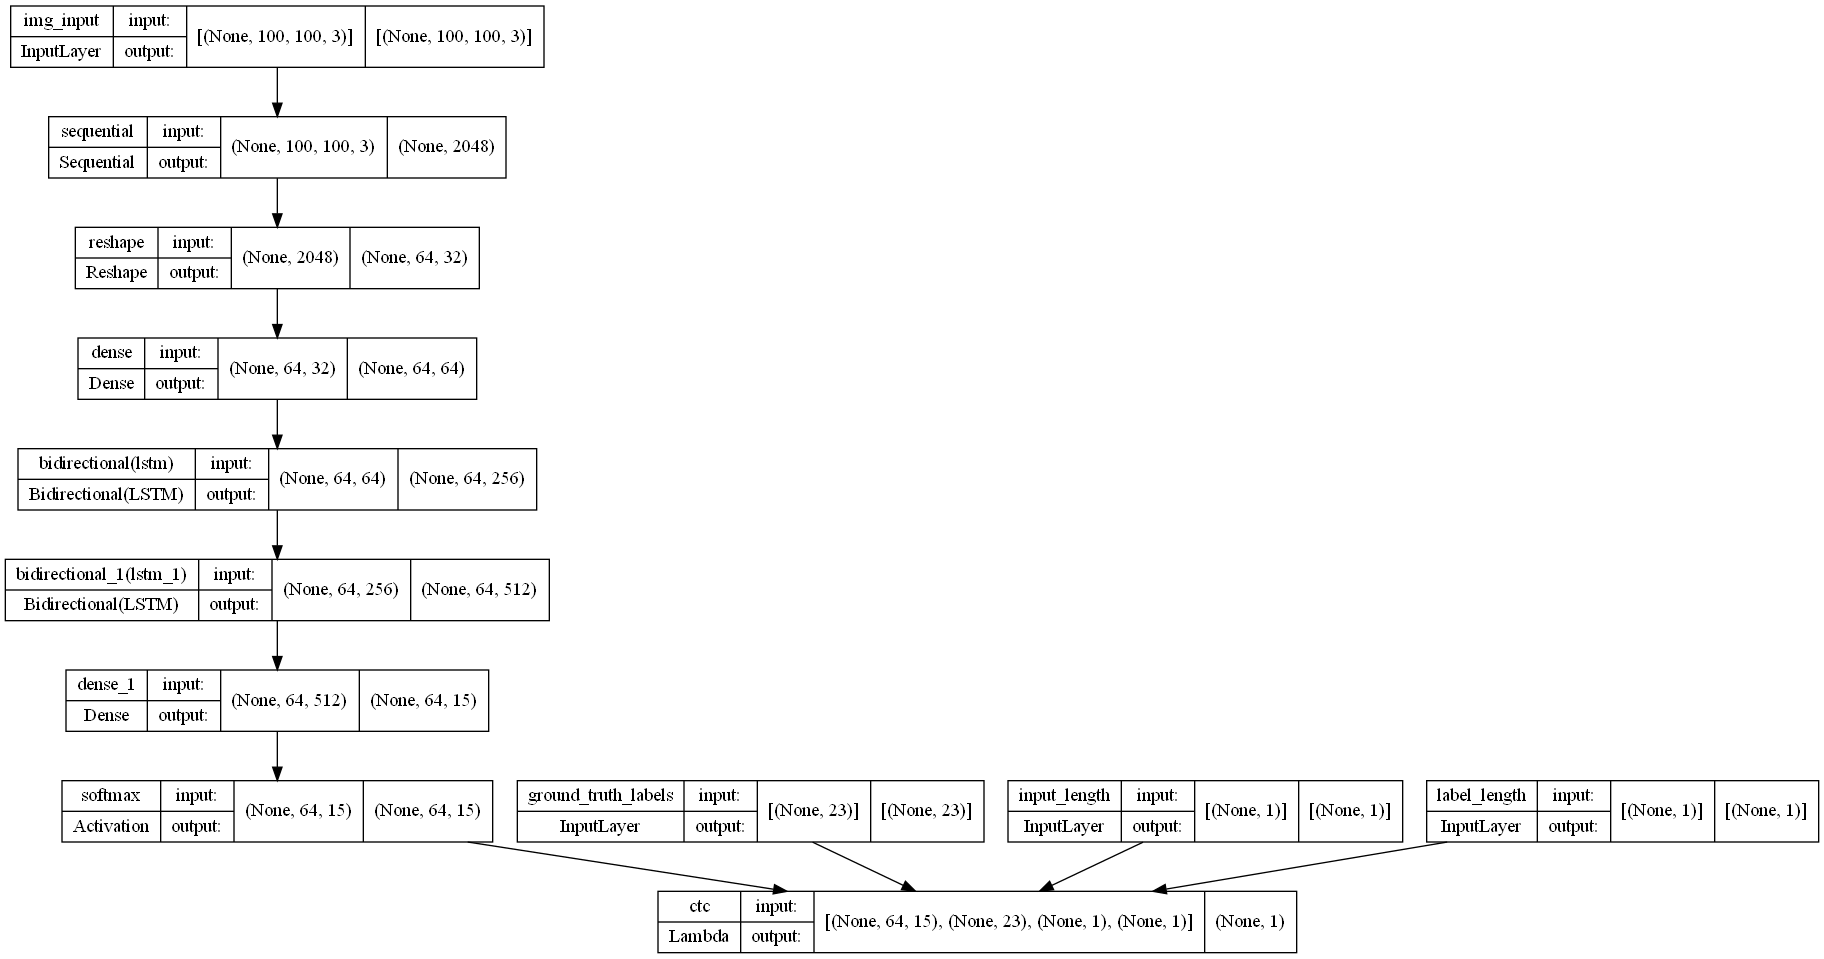
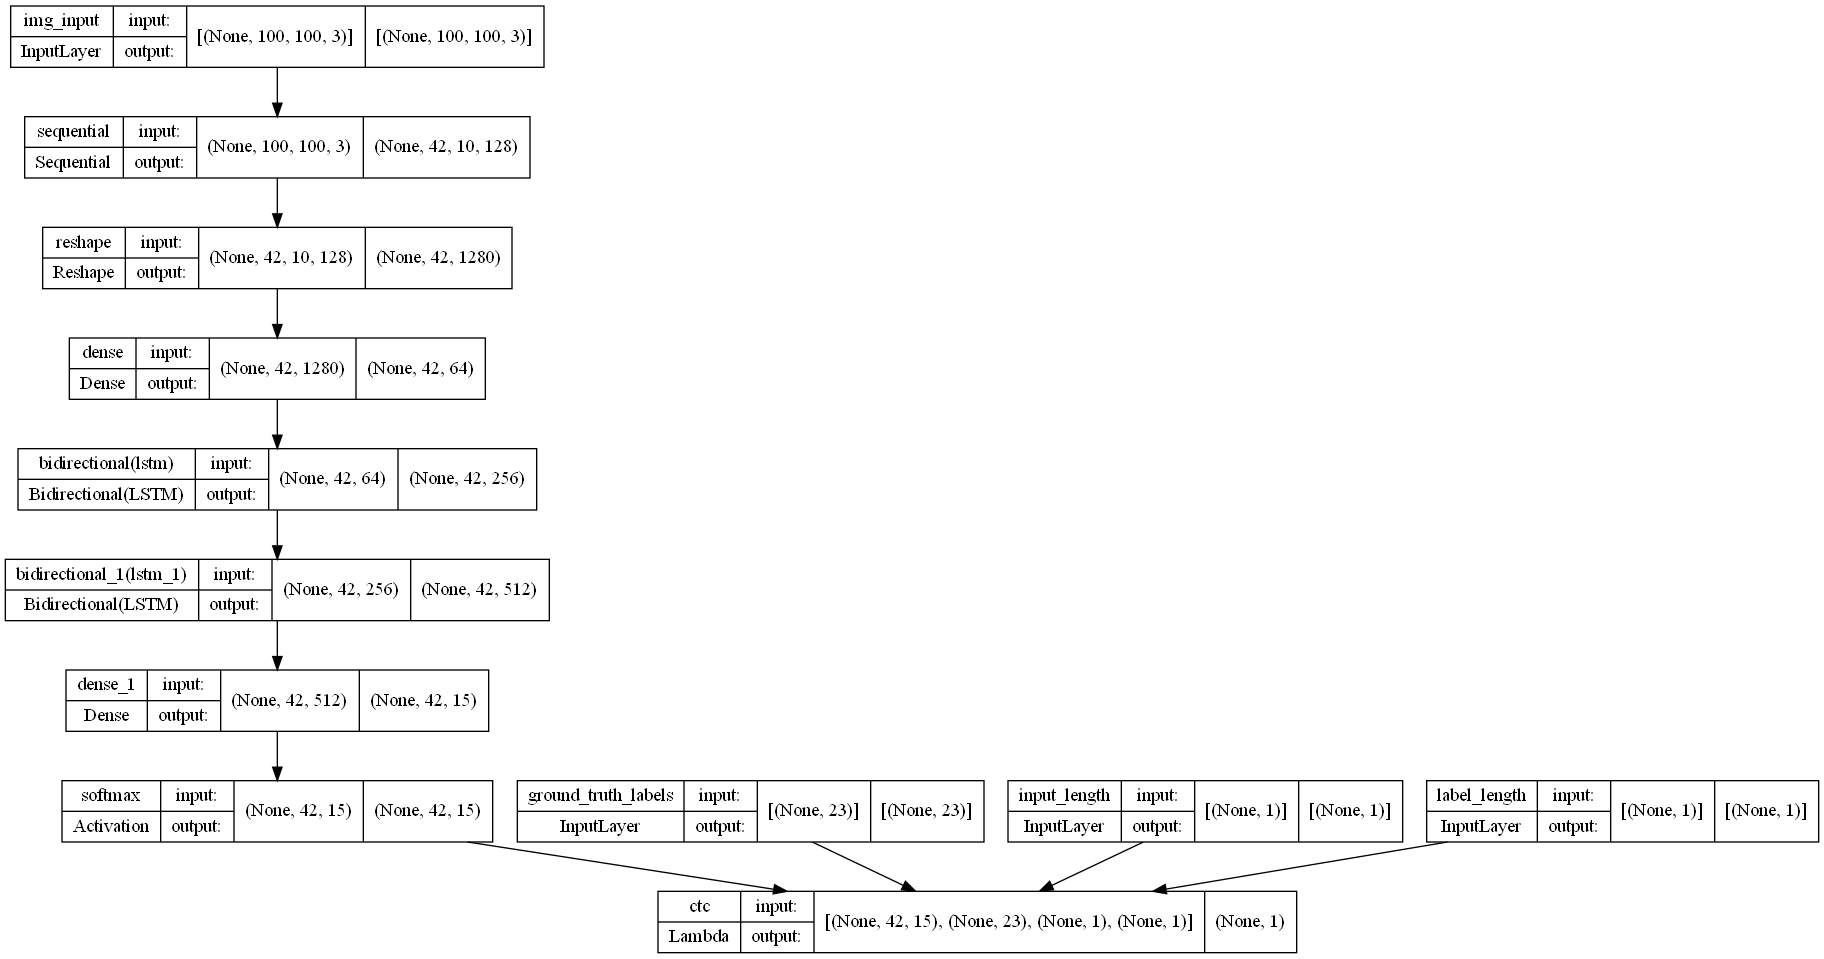
Progress

Changed region(s): [[0.0, 0.121, 0.2812, 0.1814], [0.0312, 0.2419, 0.2812, 0.3024], [0.0312, 0.3629, 0.2812, 0.4234]]

diff --git a/equation_parser/base_conv_model.py b/equation_parser/base_conv_model.py
@@ -8,21 +8,30 @@ MODEL_PATH = './equation_parser/conv_base.h5'
 
 class BaseConvModel:
     def create_model(self):
+        # input is 100x100
         self.model = models.Sequential([
+            layers.Resizing(84, 84),
             layers.Conv2D(56, (7, 7), padding="same",
-                          activation="relu", input_shape=(100, 100, 3)),
+                          activation="relu", input_shape=(84, 84, 3)),
             layers.BatchNormalization(),
             layers.MaxPooling2D(pool_size=(2, 2)),
 
             layers.Conv2D(64, (5, 5), padding="same", activation="relu"),
             layers.BatchNormalization(),
-            layers.MaxPooling2D(pool_size=(2, 2)),
+            layers.MaxPooling2D(pool_size=(1, 1), padding='same'),
 
             layers.Conv2D(128, (3, 3), padding="same", activation="relu"),
             layers.BatchNormalization(),
+            layers.MaxPooling2D(pool_size=(1, 2)),
 
+            layers.Conv2D(128, (3, 3), padding="same", activation="relu"),
+            layers.BatchNormalization(),
+            layers.MaxPooling2D(pool_size=(1, 2)),
             # layers.Flatten()
         ])
+
+        self.model.build((None, 100, 100, 3))
+        self.model.summary()
 
     def load_model(self):
         if os.path.exists(MODEL_PATH):

diff --git a/equation_parser/caption_model.py b/equation_parser/caption_model.py
@@ -7,7 +7,7 @@ from tensorflow.keras.utils import plot_model
 from keras import backend as K
 
 
-from .tokens import MAX_EQUATION_TEXT_LENGTH
+from .tokens import RNN_TIMESTEPS, MAX_EQUATION_TEXT_LENGTH
 from .base_resnet_model import BaseResnetModel
 from .base_conv_model import BaseConvModel
 
@@ -35,18 +35,18 @@ class CaptionModel:
         self.train = train
 
     def create_model(self):
-        self.base_resnet_model.load_model()
-        # self.base_conv_model.load_model()
+        # self.base_resnet_model.load_model()
+        self.base_conv_model.load_model()
 
-        UNITS_PER_TIMESTEP = 32
+        UNITS_PER_TIMESTEP = RNN_TIMESTEPS
         LSTM_UNITS = 256
         N = int(MAX_EQUATION_TEXT_LENGTH * UNITS_PER_TIMESTEP)
 
         model_input = Input(shape=(100, 100, 3), name='img_input')
-        model = self.base_resnet_model.model(model_input)
+        model = self.base_conv_model.model(model_input)
         # model = Dense(N, activation='relu')(model)
         model = Reshape(target_shape=(
-            (64, 32)))(model)
+            (42, 1280)))(model)
         model = Dense(64, activation='relu')(model)
         model = Bidirectional(LSTM(
             LSTM_UNITS, return_sequences=True), merge_mode='sum')(model)

diff --git a/equation_parser/ctc_data_generator.py b/equation_parser/ctc_data_generator.py
@@ -8,6 +8,8 @@ import random
 import pandas as pd
 import numpy as np
 
+from .tokens import RNN_TIMESTEPS
+
 # http://man.hubwiz.com/docset/TensorFlow.docset/Contents/Resources/Documents/api_docs/python/tf/keras/backend/ctc_batch_cost.html
 
 
@@ -41,7 +43,7 @@ class CtcDataGenerator(keras.callbacks.Callback):
             Y_data = np.ones([self.batch_size, MAX_EQUATION_TEXT_LENGTH]) * -1
 
             # input_length for CTC which is the number of time-steps of the RNN output
-            input_length = np.ones((self.batch_size, 1)) * 32
+            input_length = np.ones((self.batch_size, 1)) * (RNN_TIMESTEPS - 2)
             label_length = np.zeros((self.batch_size, 1))
 
             source_str = []

diff --git a/equation_parser/equation_parser.py b/equation_parser/equation_parser.py
@@ -22,12 +22,12 @@ from .ctc_viz_callback import CtcVizCallback
 TRAIN_CACHE_DIR = './equation_parser/data/images_train'
 VAL_CACHE_DIR = './equation_parser/data/images_val'
 
-TRAIN_EQUATION_COUNT = 200000
-VAL_EQUATION_COUNT = 10000
+TRAIN_EQUATION_COUNT = 50000
+VAL_EQUATION_COUNT = 1000
 
 BATCH_SIZE = 64
 
-EPOCHS = 10
+EPOCHS = 5
 
 
 class EquationParser:

diff --git a/equation_parser/tokens.py b/equation_parser/tokens.py
@@ -17,7 +17,7 @@ for idx, t in enumerate(TOKENS):
 # 18 numbers + 3 fractions + plus, equals
 MAX_EQUATION_TEXT_LENGTH = 23
 
-RNN_TIMESTEPS = 32
+RNN_TIMESTEPS = 42
 
 
 # MAX_EQUATIN_TEXT_LENGTH = 13
